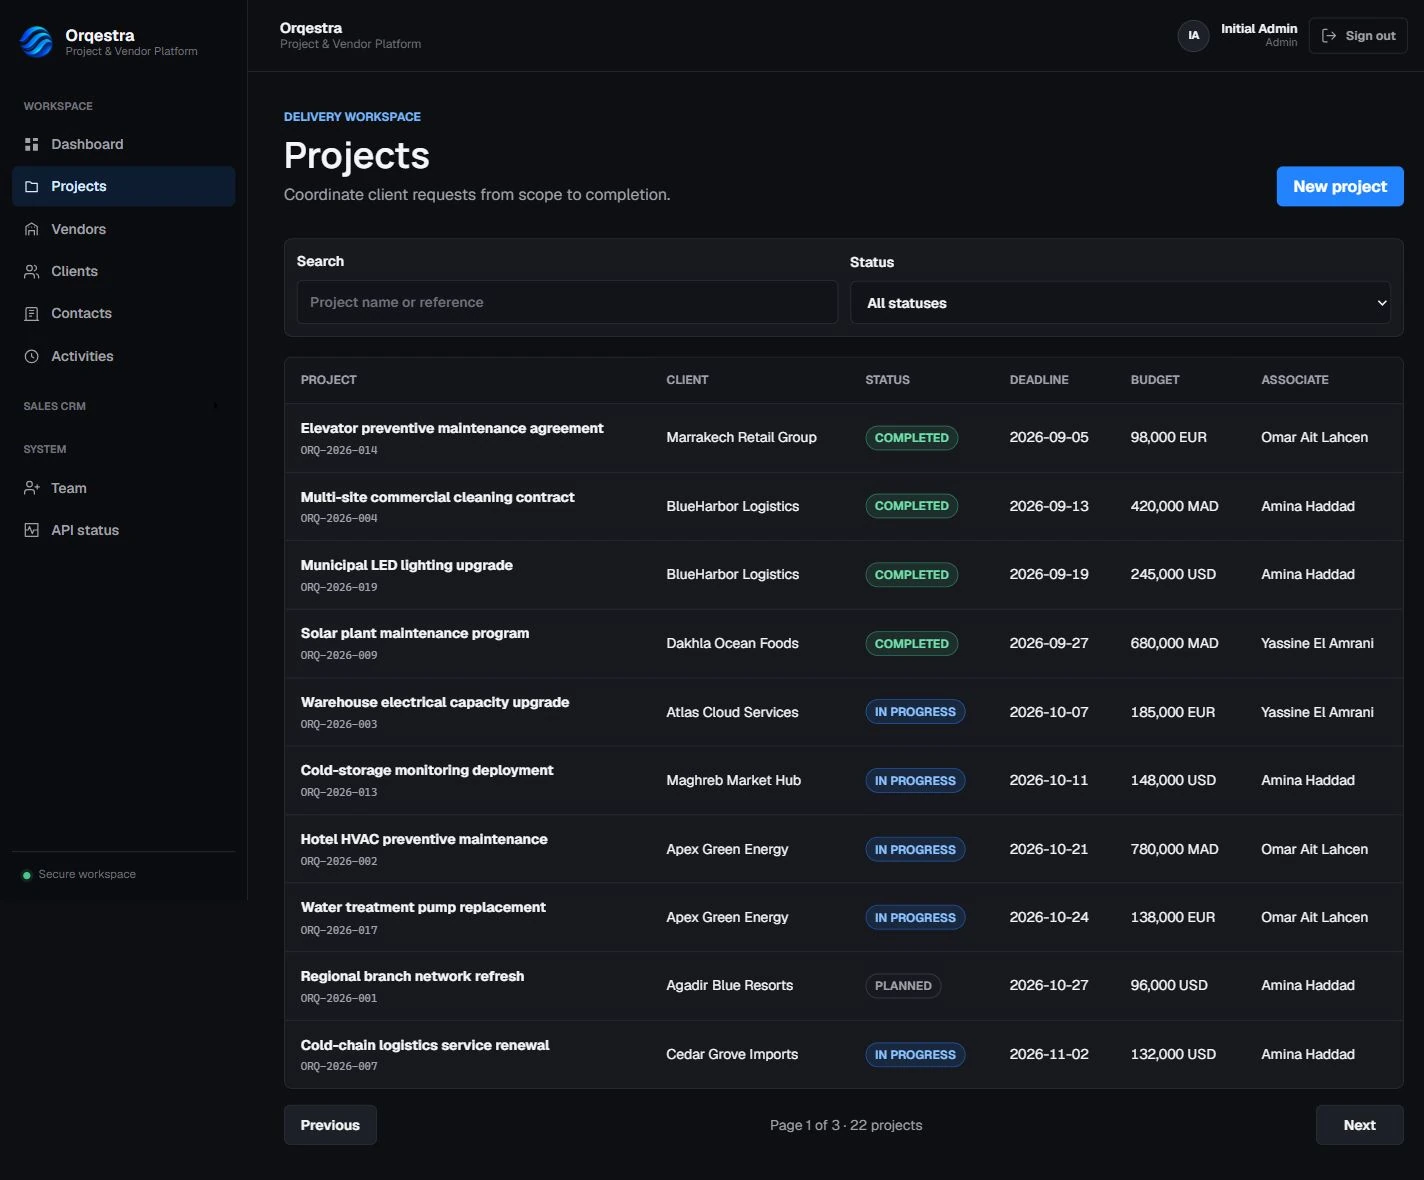
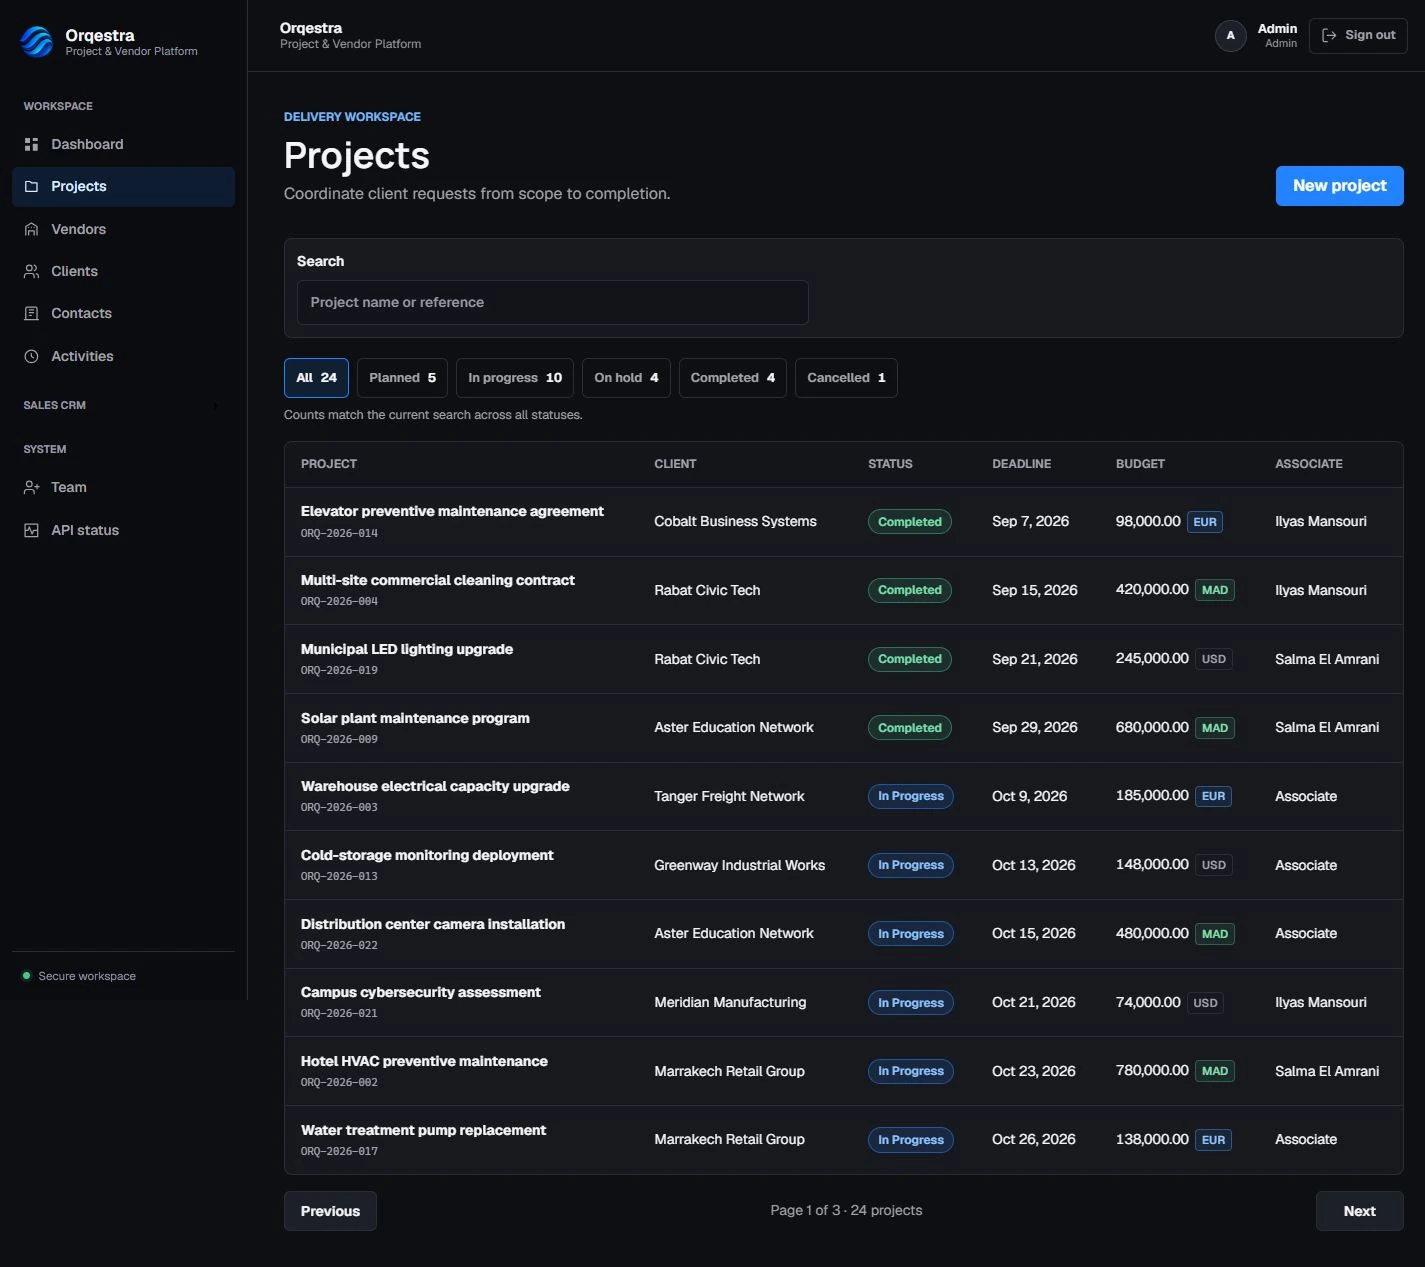
docs: refresh Orqestra features and authentic screenshots

diff --git a/README.md b/README.md
@@ -40,7 +40,7 @@ Open **http://localhost:4201**. The first build takes longer while images and de
 
 Admin can explore all operational data and Team Management. Manager can manage projects, vendors, and quotations, but cannot administer invitations. Associate sees assigned projects and role-scoped analytics, documents, and follow-ups.
 
-Demo Mode creates an isolated synthetic dataset: 20 projects, 30 vendor organizations, 16 client organizations (four organizations have both roles), 80 vendor assignments, 60 quotation revisions, 120 activities, 42 contacts, and three downloadable sample documents. Two additional inactive staff records hold the remaining project assignments without additional login credentials; the existing workload chart lists active Associates only.
+On a fresh database, Demo Mode creates 24 projects, 30 vendor organizations, 16 client organizations (four have both roles), 96 vendor assignments, 72 quotation revisions, 144 activities, 42 contacts, and three downloadable sample documents. Three active Associates have varied workloads. The two additional synthetic staff accounts receive unknown random passwords, not the public demo password, and have no documented shared login credentials. Existing demo databases retain employee edits and original assignments; the new staff and four additional projects are added without resetting records.
 
 The committed `.env.demo` contains only public local-demo settings. This command does not load `.env.local`, connect to native `crm_dev`, or reuse normal Docker database/upload volumes. SMTP is disabled; Admin invitation previews are available without sending email. These public credentials work only with the explicitly enabled demo configuration. **Never deploy Demo Mode publicly or use its credentials in production.** Published ports bind to `127.0.0.1`.
 
@@ -68,20 +68,22 @@ Clients and vendors share one organization model: a company can have either role
 
 | Area | Implemented capabilities |
 | --- | --- |
-| **Projects** | Create, search, filter, and paginate projects. Track reference, client, category, location, deadline, budget, currency, assigned associate, status, Scope of Work, and notes. |
-| **Vendors** | Search the vendor directory, associate vendors with projects, assign responsible associates, update outreach status, and track contact dates, follow-ups, and notes. |
+| **Projects** | Create, search, filter, and paginate projects. Server-side status counters follow the current search across all statuses and respect project visibility. Track reference, client, category, location, deadline, budget, currency, assigned associate, status, Scope of Work, and notes. Summary shortcuts open vendor, quotation, and document sections; project history shows the recorded creation and last-update timestamps, not a full audit trail. |
+| **Vendors** | Search the vendor directory, associate vendors with projects, assign responsible associates, update outreach status, and track contact dates, follow-ups, and notes. Organization lists and details show separate client/vendor project counts, restricted to distinct projects visible to the current user. |
 | **Quotations** | Record quotations from multiple vendors, retain numbered revisions, compare amounts and currencies, and select or replace the winning quotation transactionally. Quote updates can mark vendor outreach as Quote Received. |
 | **Activities** | Record notes, calls, emails, meetings, and follow-ups. View project communication timelines and upcoming or overdue vendor follow-ups. |
-| **Documents** | Upload project files and quotation attachments, list file metadata, and download through authorized API endpoints. Files use local filesystem storage; metadata is persisted in PostgreSQL. |
+| **Documents** | Upload project files and quotation attachments up to 10 MB, list file metadata, and download through authorized API endpoints. Files use local filesystem storage; metadata is persisted in PostgreSQL. |
 | **Analytics** | ECharts visualizations for project status, vendor outreach, quotation trends, and associate workload. Date-range, associate, and currency controls where applicable; unlike currencies are kept separate. |
 | **Authentication** | JWT login, BCrypt password hashing, protected Angular routes, and Spring Security authorization. Associates see assigned-project data and role-scoped analytics. |
 | **Employee onboarding** | Admin-only Team Management, Manager/Associate invitations, Gmail SMTP emails, password setup through single-use activation links, expiry, resend, revocation, and delivery failure tracking. |
 
 The interface uses a shared dark design system, Manrope headings, Geist inputs and body text, and a lazy-loaded Three.js login scene with reduced-motion and WebGL fallbacks.
 
+Financial values use two decimal places and tabular figures, with compact EUR (blue), MAD (green), and USD (neutral) badges. Other currencies use a neutral fallback. Quotation revisions remain individual submissions; amounts in different currencies are never combined without conversion. Relationship counts do not multiply when quotations have multiple revisions.
+
 ## Screenshots
 
-Captured from the running application using existing synthetic development records. The Team view is filtered to the demo email domain.
+Captured from the running application using synthetic development and isolated Docker demo records. No live customer data is shown.
 
 | Projects | Project Details |
 | --- | --- |
@@ -169,7 +171,7 @@ Authorization is enforced in backend services and the Spring Security filter cha
 ### Prerequisites
 
 - JDK 21 and Maven 3.9+ (`JAVA_HOME` must point to JDK 21)
-- Node.js 18.x or 20.x and pnpm; the package declares Node `>=16.14.0 <21.0.0`
+- Node.js 18.x or 20.x and pnpm 10 (Docker uses 10.28.2); the package declares Node `>=16.14.0 <21.0.0`
 - PostgreSQL, with version 16 matching the included Compose database image
 
 ### 1. Clone and Configure PostgreSQL
@@ -332,18 +334,18 @@ The suite includes Spring security tests and invitation lifecycle tests using re
 Run frontend tests and the production build from `frontend/`:
 
 ```bash
-pnpm test -- --browsers=ChromeHeadless
-pnpm build
+pnpm exec ng test --watch=false --browsers=ChromeHeadless
+pnpm exec ng build --configuration production
 ```
 
 Karma requires an installed Chromium browser. To use Microsoft Edge on Windows:
 
 ```powershell
 $env:CHROME_BIN = "C:\Program Files (x86)\Microsoft\Edge\Application\msedge.exe"
-pnpm test -- --browsers=ChromeHeadless
+pnpm exec ng test --watch=false --browsers=ChromeHeadless
 ```
 
-Frontend coverage includes authentication routing, Admin-only navigation, invitation forms, activation states, and existing CRM components. Backend coverage includes validation, ownership, quotation workflows, invitation expiry/revocation/reuse, concurrent acceptance, token rotation, delivery failure handling, demo configuration safety, BCrypt account creation, and preservation of existing demo passwords.
+Frontend coverage includes authentication routing, Admin-only navigation, invitation forms, activation states, currency rendering, search-aware status counters, project-tab shortcuts, recorded timestamps, and organization relationship indicators. Backend coverage includes validation, ownership, quotation workflows, invitation expiry/revocation/reuse, concurrent acceptance, token rotation, delivery failure handling, demo configuration safety, BCrypt account creation, preservation of existing demo passwords, inactive-account JWT rejection, role-scoped aggregates, and upload storage validation.
 
 ## Project Status
 
